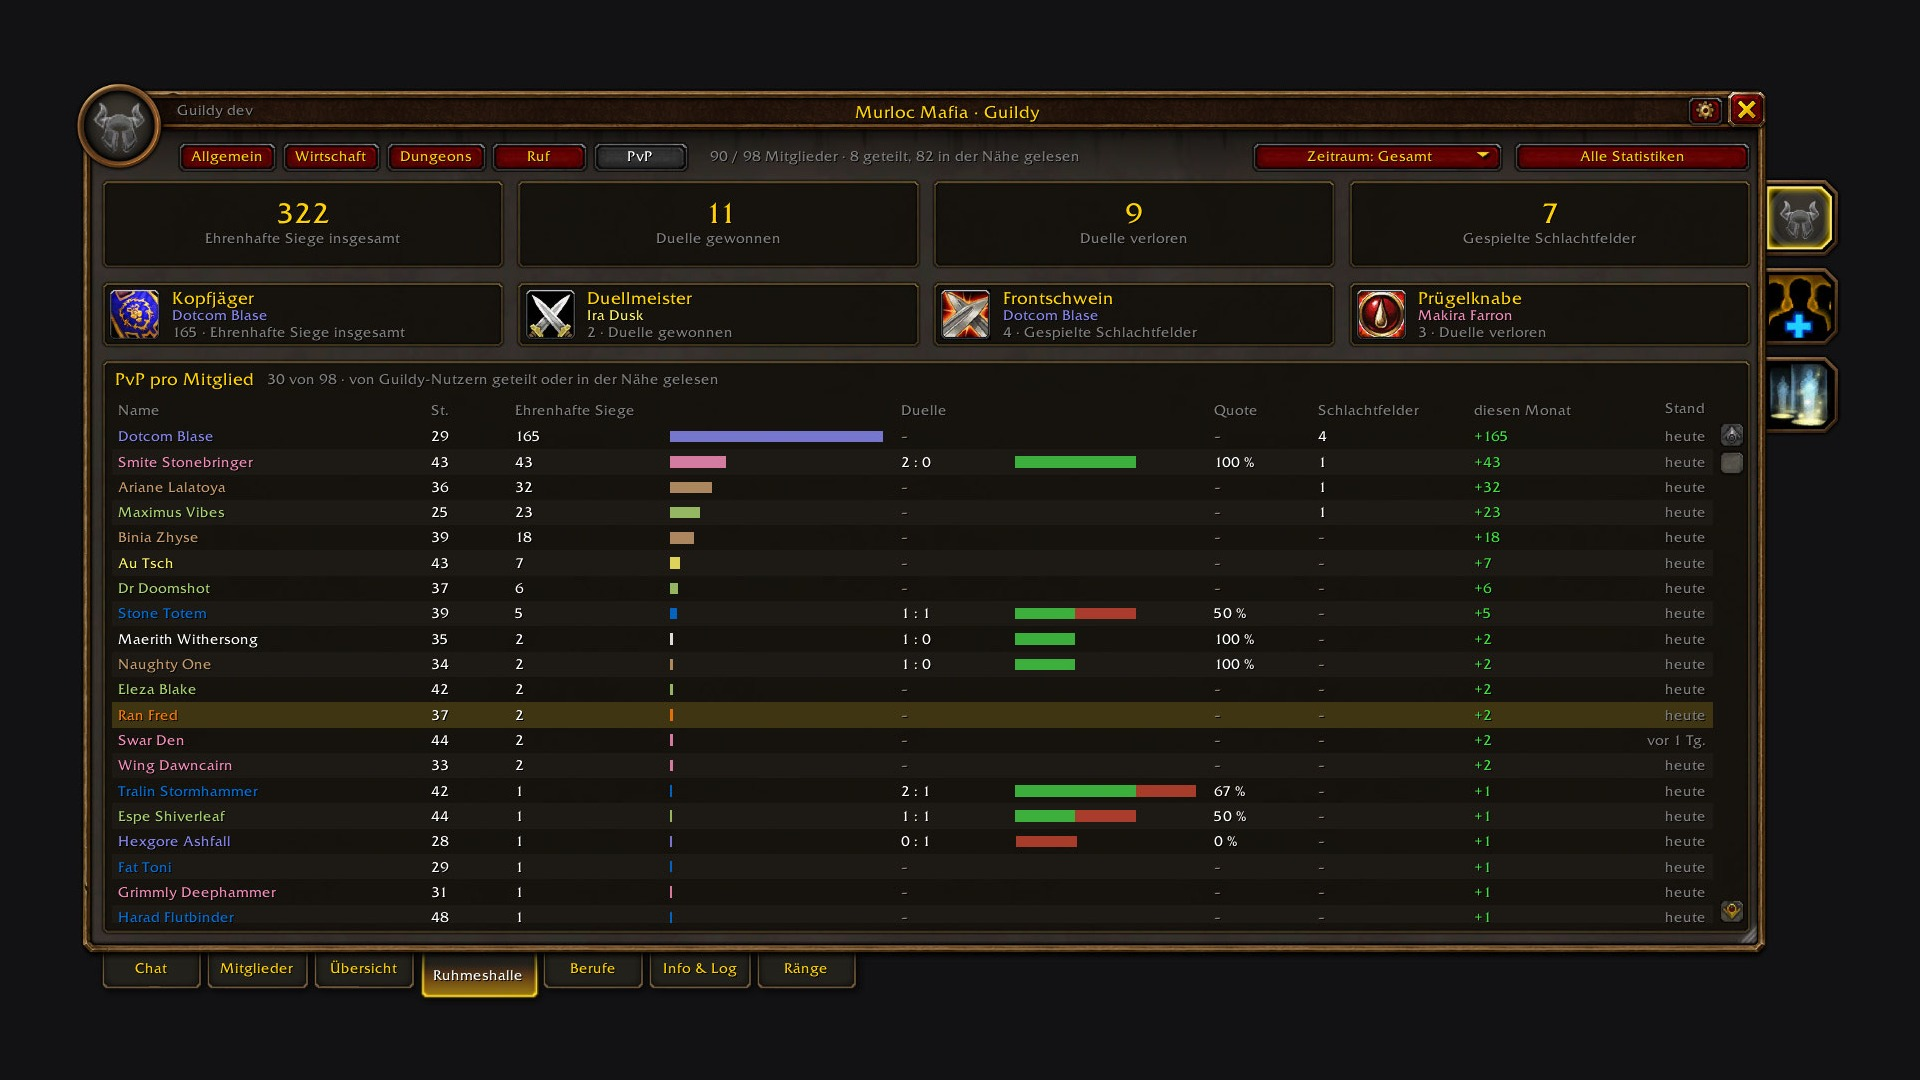
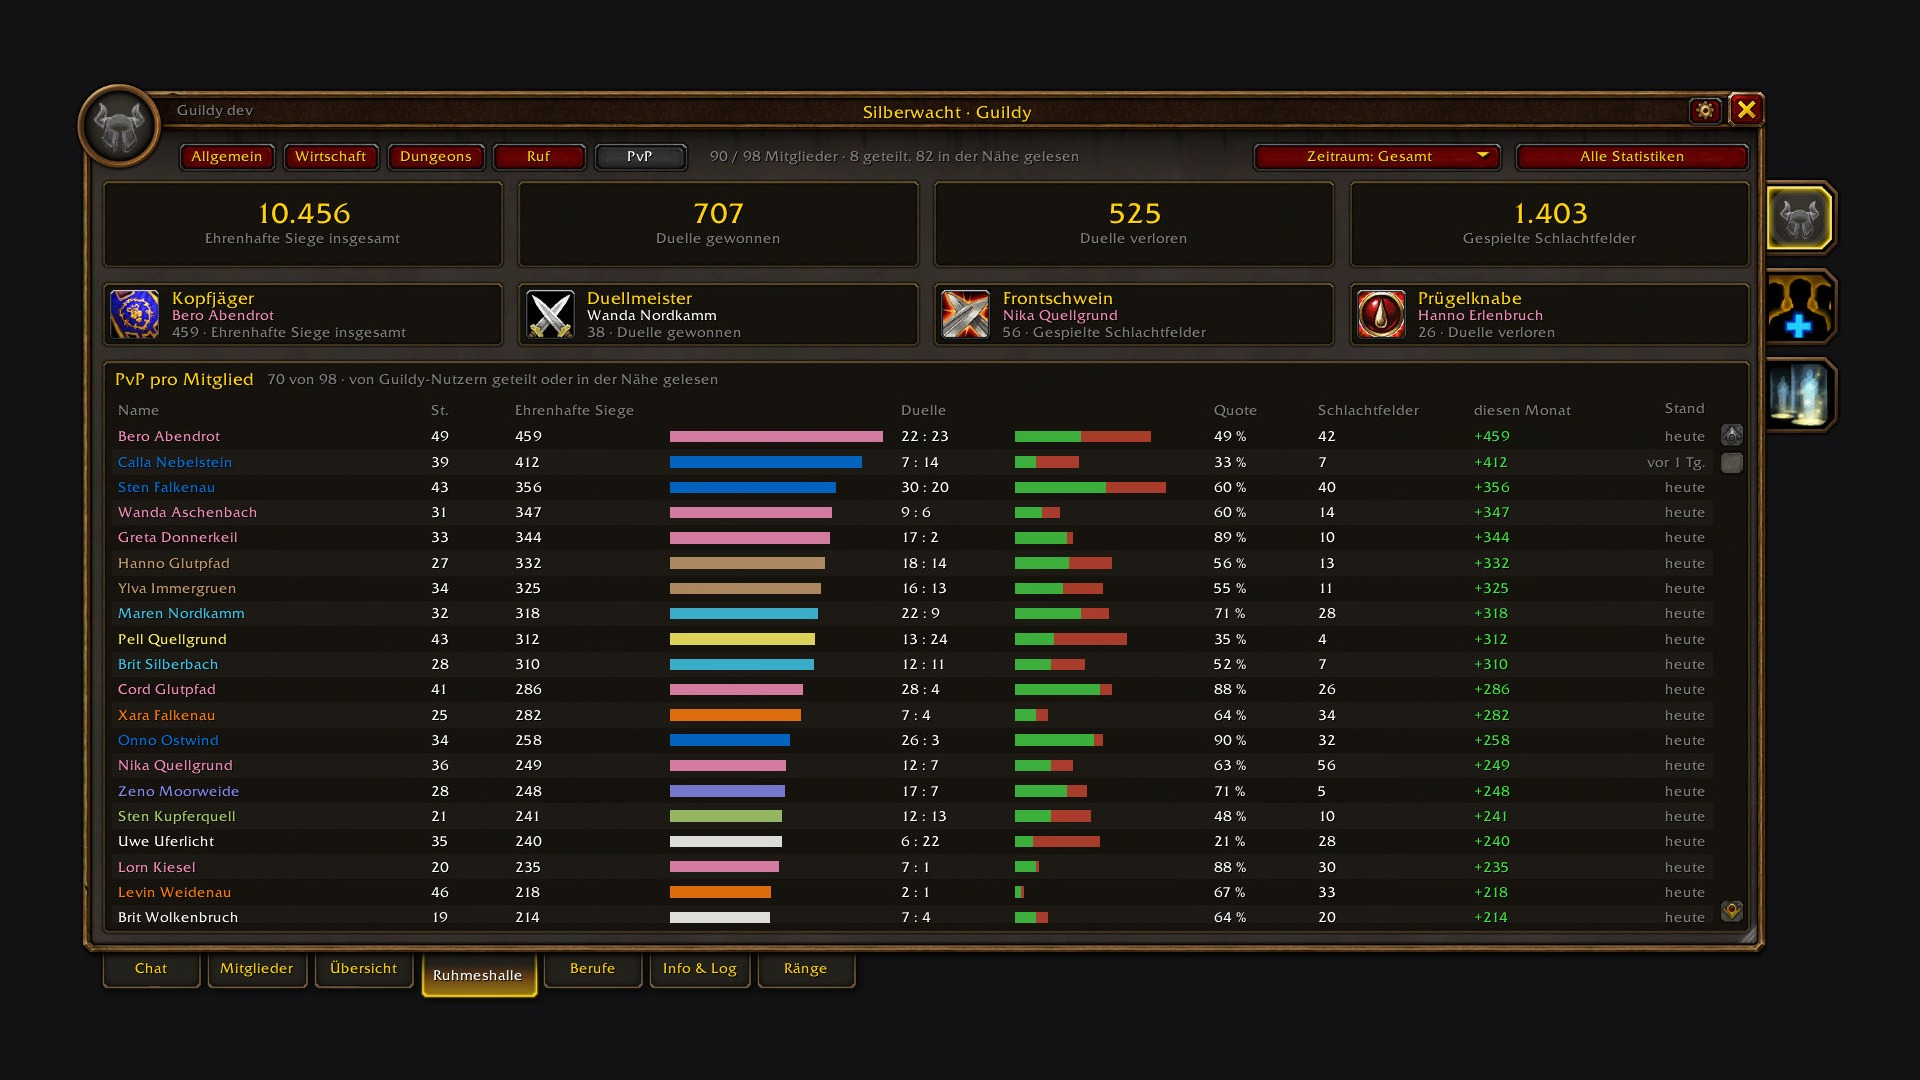
docs: gallery pictures with made-up names, old gallery files removed

diff --git a/media/gallery/README.md b/media/gallery/README.md
@@ -1,6 +1,7 @@
 # Gallery images
 
-The gallery pictures are real in-game screenshots (German client), unretouched. Three steps make them:
+The gallery pictures are real in-game screenshots (German client), not retouched afterwards: while `/guildy shots`
+runs, Guildy shows made-up names, notes and chat by itself. Three steps make them:
 
 ```sh
 python collect.py "<WoW folder>/_forever_/Screenshots"   # the newest /guildy shots run -> src/
@@ -8,14 +9,14 @@ python crop.py                                            # the window cut out -
 python gallery.py                                         # 1920x1080 JPGs in this folder
 ```
 
-`build.py`, `screens.py`, `promo.html` and `sync.html` made the pictures up to 1.2.0 (made-up names painted over
-the real ones, a rendered overview and a sharing explainer). They are kept for reference and no longer used.
-
 ## Reference screenshots
 
 `/guildy shots` (with Guildy open) walks through every tab, Hall of Fame page, the character page and the options
 and takes one screenshot per view, in about 40 seconds. During the run a plain dark sheet covers the screen behind
-Guildy (`/guildy shots backdrop` switches it on and off for pictures taken by hand). Then:
+Guildy, and character names, guild and community names, notes, the message of the day, the guild information and
+the chat are replaced by made-up ones (`Core/Anon.lua`); the PvP statistics are sample values, everything else
+is the guild's real data. For pictures taken by hand, `/guildy shots backdrop` and
+`/guildy shots anon` switch the two on and off. Then:
 
 ```sh
 python media/gallery/collect.py "<WoW folder>/_forever_/Screenshots"
@@ -23,11 +24,6 @@ python media/gallery/collect.py "<WoW folder>/_forever_/Screenshots"
 
 copies that run to `src/` as `01-chat.jpg` … `19-options-professions.jpg` (the list is in `UI/Shots.lua`).
 
-Local only, git-ignored: `src/` (the raw screenshots and the cut-outs) and `screens.py`.
-
-Needed: Pillow and numpy. The old `build.py` also needs Chrome and the game font, which is not in the repo
-(Blizzard asset, git-ignored):
-
-- `fonts/FRIZQT__.TTF`: `curl -L -o fonts/FRIZQT__.TTF https://wago.tools/api/casc/615960`
+Local only, git-ignored: `src/` (the raw screenshots and the cut-outs). Needed: Pillow and numpy.
 
 The logo is `../logo.svg`; `sh ../render-logo.sh` renders `../logo.png`.

diff --git a/docs/curseforge.md b/docs/curseforge.md
@@ -35,8 +35,10 @@ the images point to GitHub raw URLs and show up as they are.
 ## Gallery (in this order)
 
 Real in-game screenshots (German client) of my own guild, taken by `/guildy shots` in front of a plain backdrop
-and cut out by `media/gallery/crop.py` and `gallery.py` (see `media/gallery/README.md`). Nothing in them is
-retouched: the names, notes and chat are the guild's own.
+and cut out by `media/gallery/crop.py` and `gallery.py` (see `media/gallery/README.md`). Nothing is retouched
+afterwards: during the run Guildy itself shows made-up character names, guild and community names, notes, message
+of the day and chat (`Core/Anon.lua`). Levels, classes, zones, professions and statistics are the real ones,
+except the PvP statistics: my guild hardly does PvP, so the PvP page shows sample values.
 
 Title and description per image (CurseForge allows 255 characters per description).
 
@@ -82,9 +84,12 @@ Title and description per image (CurseForge allows 255 characters per descriptio
 14. `media/gallery/15-options-members.jpg`
    - Title: Options
    - Description: The cog in the title bar opens the options next to the window, so you see a change while you make it. Here: the columns of the member list and how it tells online from offline.
+15. `media/gallery/16-options-hall-of-fame.jpg`
+   - Title: Options: Hall of Fame
+   - Description: Pick which tiles and title cards each Hall of Fame page shows, in which order. Any statistic Guildy tracks can be a tile.
 
-No longer part of the gallery: `00-guildy.jpg`, `09-professions-leatherworking.jpg` and `12-sync.jpg` (rendered
-or retouched pictures of the old look). Remove them from the CurseForge gallery when uploading the new ones.
+The pictures made up to 1.2.0 (`00-guildy`, `09-professions-leatherworking`, `12-sync` and the old look of the
+others) are gone from the repository. Remove them from the CurseForge gallery when uploading the new ones.
 
 ## Links
 

diff --git a/README.md b/README.md
@@ -35,6 +35,8 @@ Made for WoW Forever. English and German.
 
 ![Options next to the window](https://raw.githubusercontent.com/svengabr/Guildy/main/media/gallery/15-options-members.jpg)
 
+![Hall of Fame options](https://raw.githubusercontent.com/svengabr/Guildy/main/media/gallery/16-options-hall-of-fame.jpg)
+
 ## Where the profession data comes from
 
 An addon can only read its own character directly, so Guildy collects the rest from several places:
